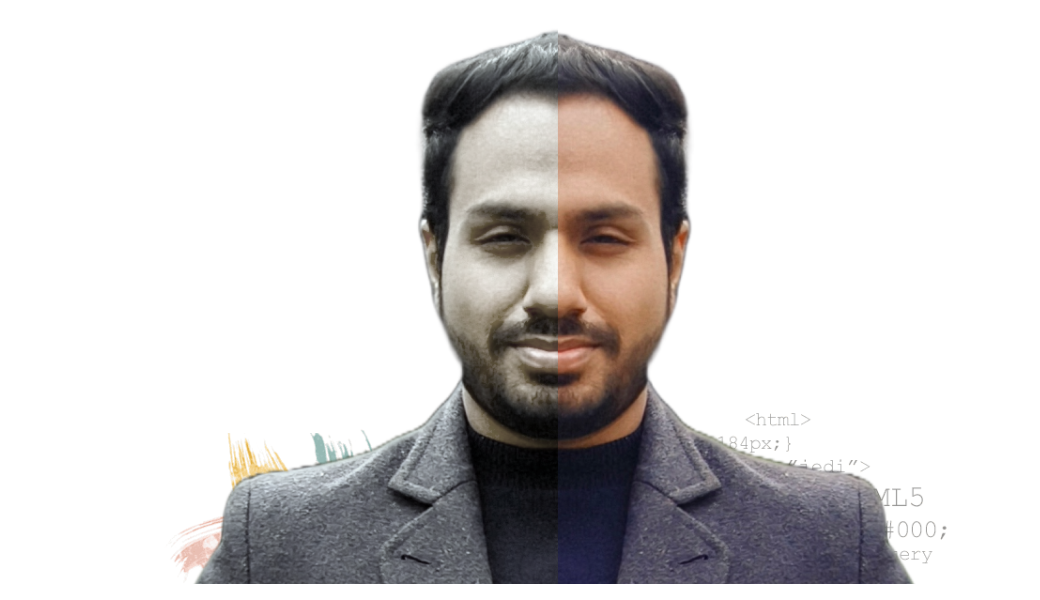
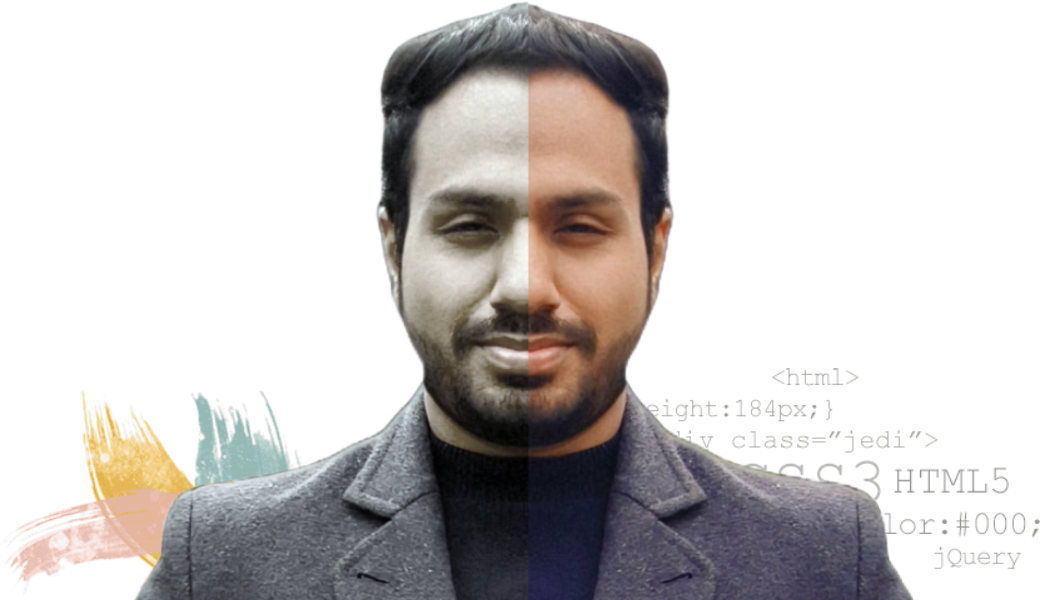
update in css
updates

Changed region(s): [[0.0, 0.0, 1.0, 1.0]]

diff --git a/assets/css/main.css b/assets/css/main.css
@@ -124,7 +124,7 @@ body {
   .face .face-img {
     display: block;
     margin: 0px;
-    width: 100%;
+    width: 130%;
   }
 
   .face a {
@@ -148,11 +148,16 @@ body {
   .face .coder h1,
   .face .designer h1 {
     display: block;
-    font-size: 15px;
+    font-size: 5vw;
   }
 
   .coder .description {
-    margin-left: 25px;
+    margin-left: 30px;
+  }
+
+  
+  .designer .description {
+    margin-right: 15px;
   }
 
   .face .designer {
@@ -175,7 +180,6 @@ body {
 
   .saluteImg {
     width: 100%;
-    margin-left: 20px;
   }
 
   /* FACE CODE END */
